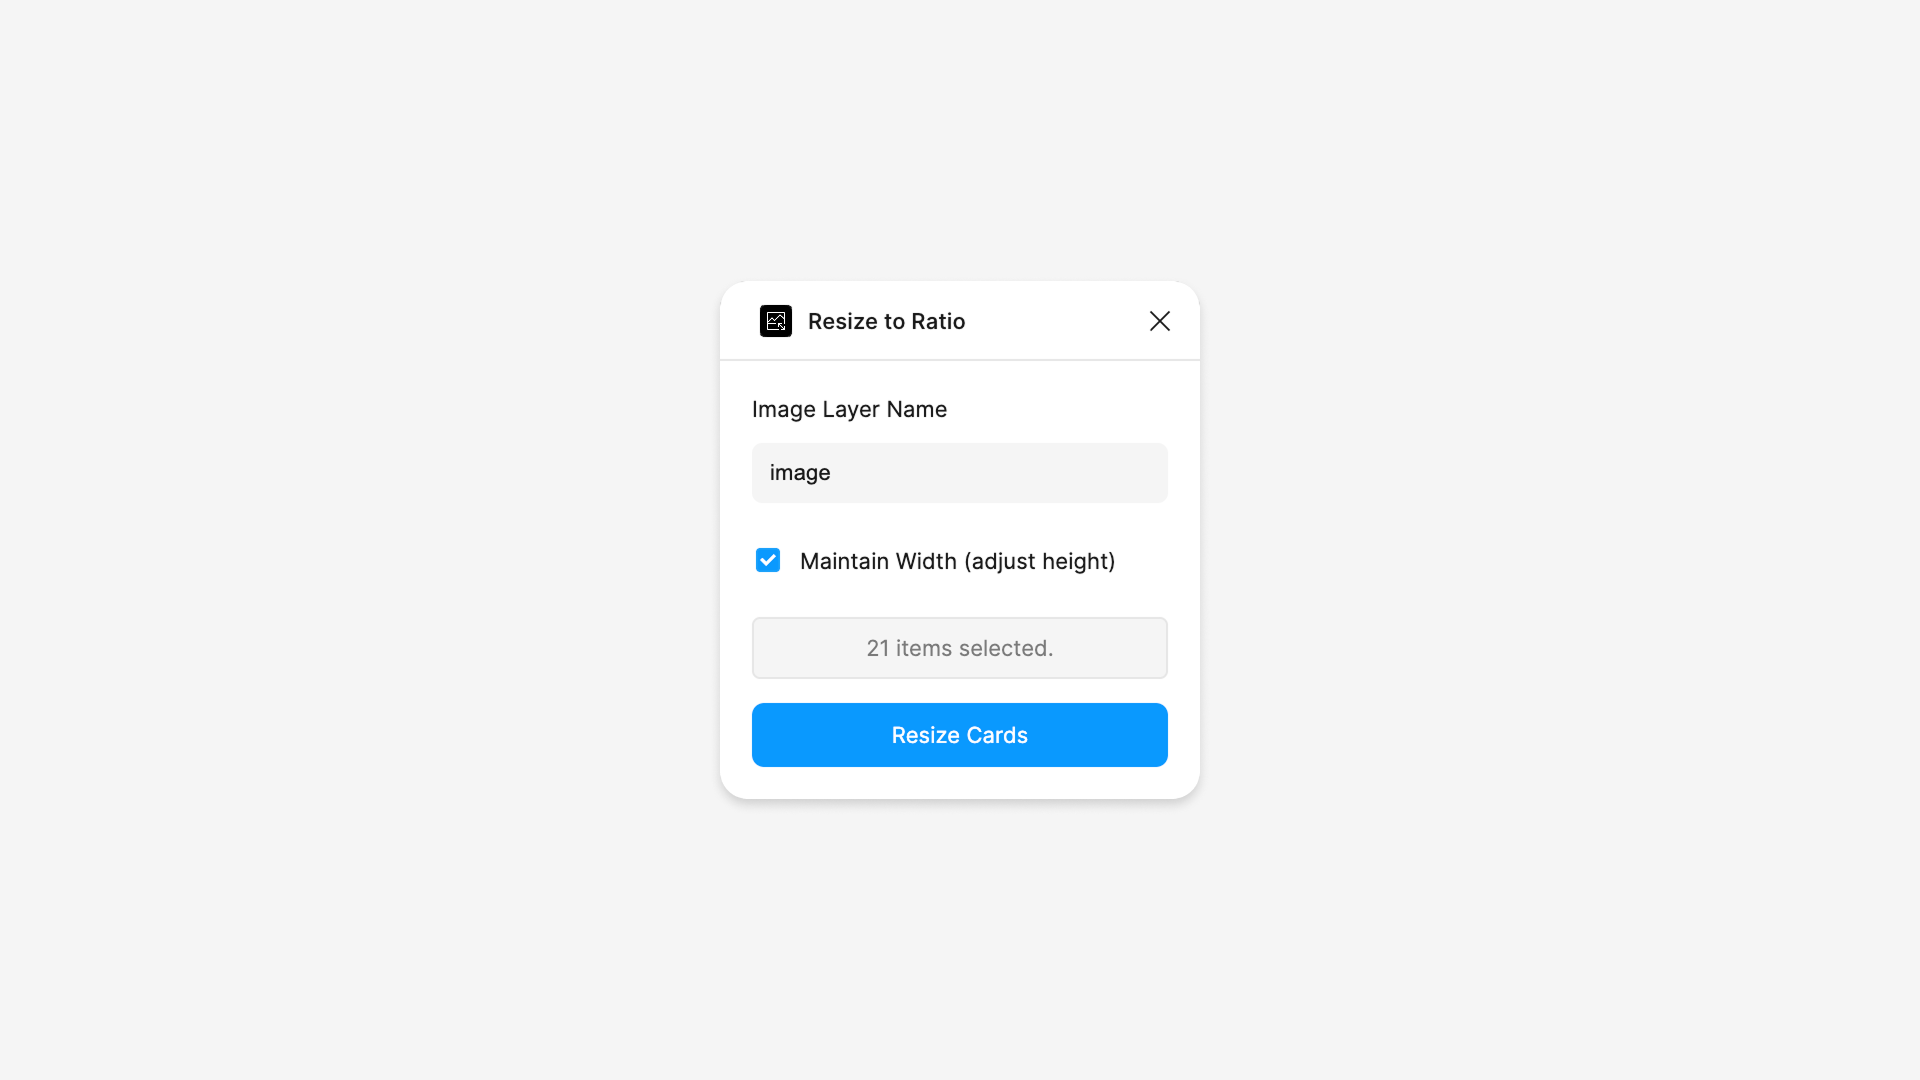
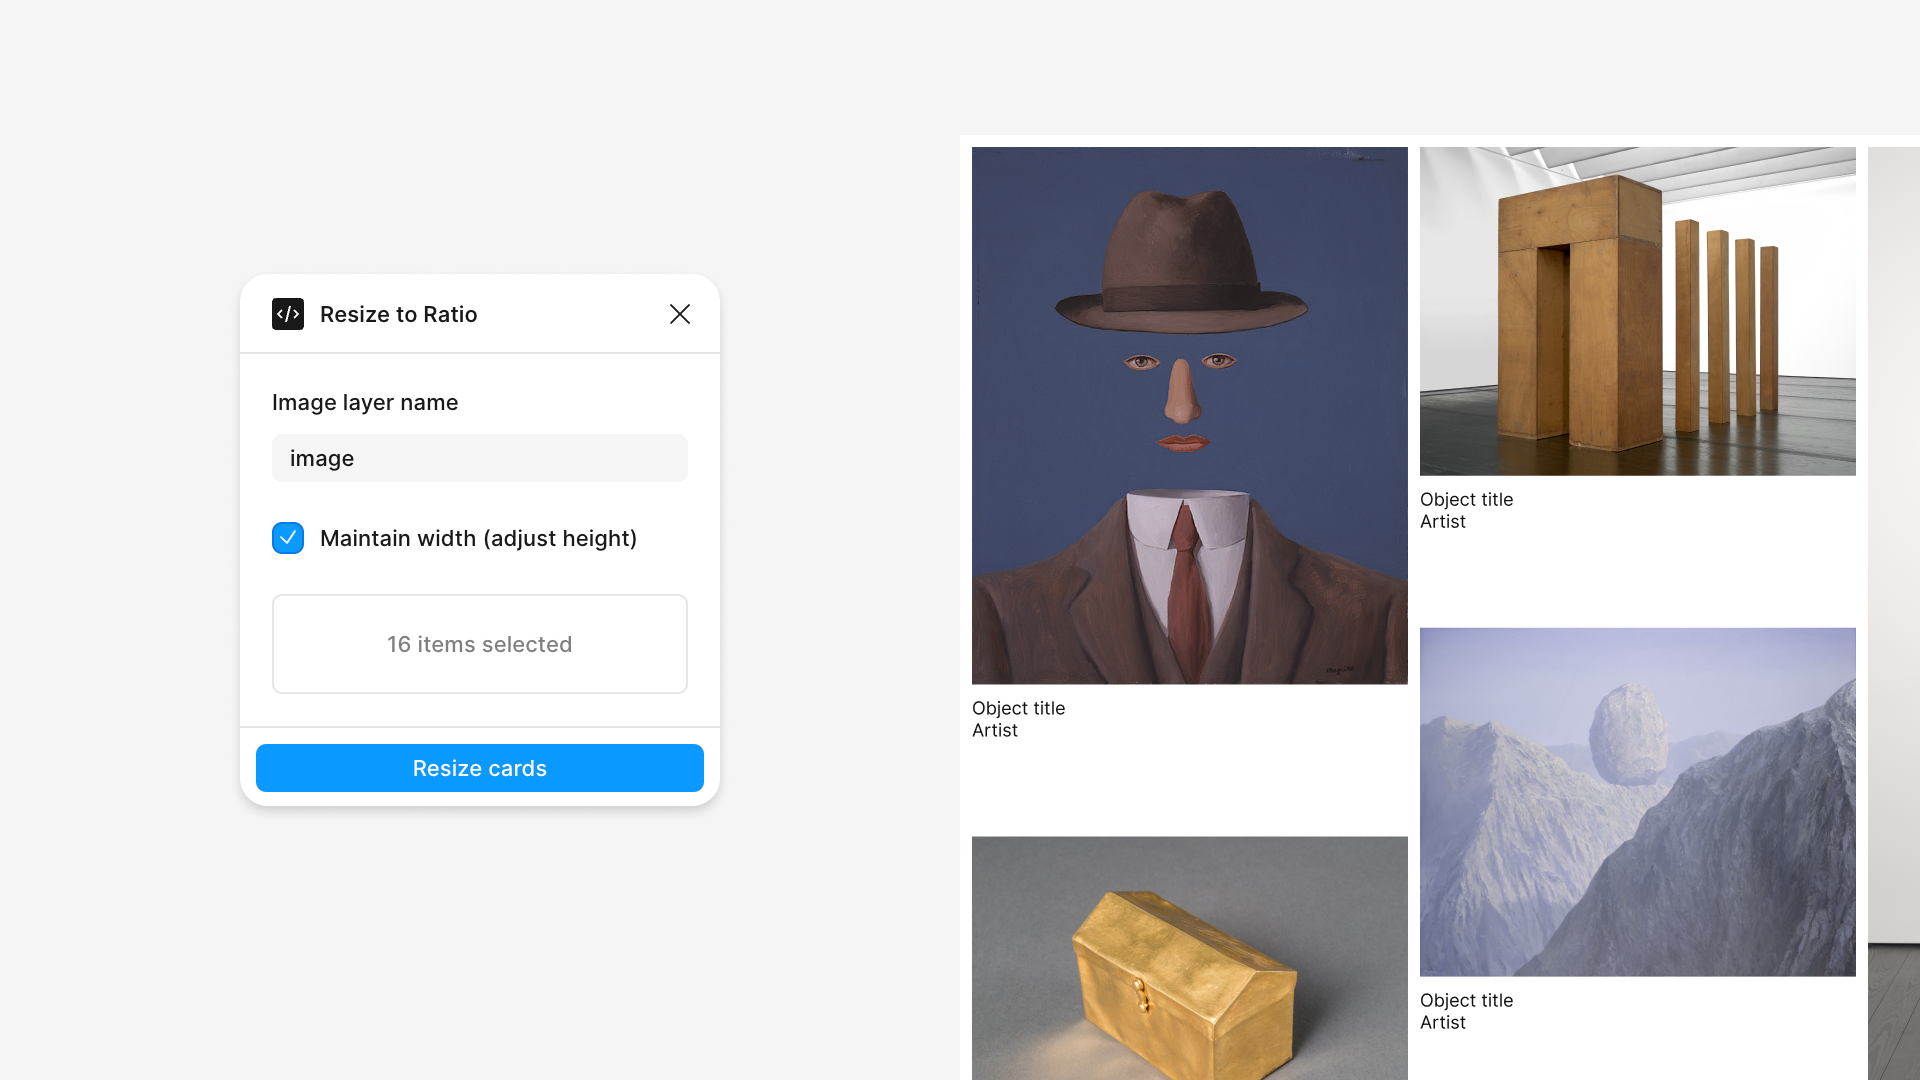
Update README and refactor code for improved functionality and error handling
- Added requirements section to README.md to specify image layer constraints.
- Updated code.ts to handle image loading errors more gracefully, tracking unavailable images.
- Adjusted UI height in code.ts for better layout consistency.
- Enhanced PluginUI.svelte with a new class for empty state styling.

diff --git a/src/code.ts b/src/code.ts
@@ -1,6 +1,6 @@
 // This plugin resizes component instances based on the aspect ratio of their nested image layers.
 // It now includes a listener for selection changes to update the UI.
-figma.showUI(__html__, { themeColors: true, width: 240, height: 219 });
+figma.showUI(__html__, { themeColors: true, width: 240, height: 226 });
 
 // --- Selection Handling ---
 
@@ -59,6 +59,7 @@ async function resizeSelectedCards(options: ResizeOptions) {
 
   let resizedCount = 0;
   let skippedCount = 0;
+  let unavailableCount = 0;
 
   // Process each selected node
   for (const node of selection) {
@@ -90,9 +91,17 @@ async function resizeSelectedCards(options: ResizeOptions) {
 
           if (!image) continue;
 
-          // Get image dimensions
-          const { width: naturalWidth, height: naturalHeight } =
-            await image.getSizeAsync();
+          // Get image dimensions — may fail if the image hasn't been loaded into
+          // memory yet (e.g. off-screen components). Skip silently in that case.
+          let naturalWidth: number;
+          let naturalHeight: number;
+          try {
+            ({ width: naturalWidth, height: naturalHeight } =
+              await image.getSizeAsync());
+          } catch {
+            unavailableCount++;
+            continue;
+          }
 
           const imageAspectRatio = naturalWidth / naturalHeight;
 
@@ -130,7 +139,9 @@ async function resizeSelectedCards(options: ResizeOptions) {
   }
 
   let message = `Resized ${resizedCount} card${resizedCount !== 1 ? "s" : ""}`;
-  if (skippedCount > 0) {
+  if (unavailableCount > 0) {
+    message += `, skipped ${unavailableCount} (image not loaded)`;
+  } else if (skippedCount > 0) {
     message += ` (skipped ${skippedCount} non-resizable node${skippedCount !== 1 ? "s" : ""})`;
   }
   figma.notify(message);

diff --git a/src/PluginUI.svelte b/src/PluginUI.svelte
@@ -49,7 +49,7 @@
       Maintain width (adjust height)
     </Checkbox>
 
-    <EmptyState message={selectionMessage} size="small" />
+    <EmptyState message={selectionMessage} size="small" class="empty-state--selection" />
   </PluginLayout>
 
   <Footer variant="full">
@@ -69,5 +69,9 @@
     height: 100%;
     display: flex;
     flex-direction: column;
+  }
+  :global(.empty-state--selection) {
+    border: 1px solid var(--figma-color-border);
+    border-radius: var(--border-radius-medium);
   }
 </style>

diff --git a/README.md b/README.md
@@ -20,6 +20,10 @@ Adjusts the dimensions of selected components based on the natural aspect ratio 
 - **Maintain width** - Keep width fixed, adjust height to match ratio
 - **Maintain height** - Keep height fixed, adjust width to match ratio
 
+## Requirements
+
+- The image layer must use "Fill" for both width and height constraints.
+
 ## Development
 
 ```bash

diff --git a/CHANGELOG.md b/CHANGELOG.md
@@ -1,0 +1,13 @@
+# Changelog
+
+## [1.0.0] - 2026-02-19
+
+### Changed
+
+- UI — Updated to Figma UI3.
+
+### Fixed
+
+- Nodes where image dimensions aren't available (e.g. off-screen components) are now skipped silently instead of triggering error notifications. The success toast reports how many were skipped.
+
+
